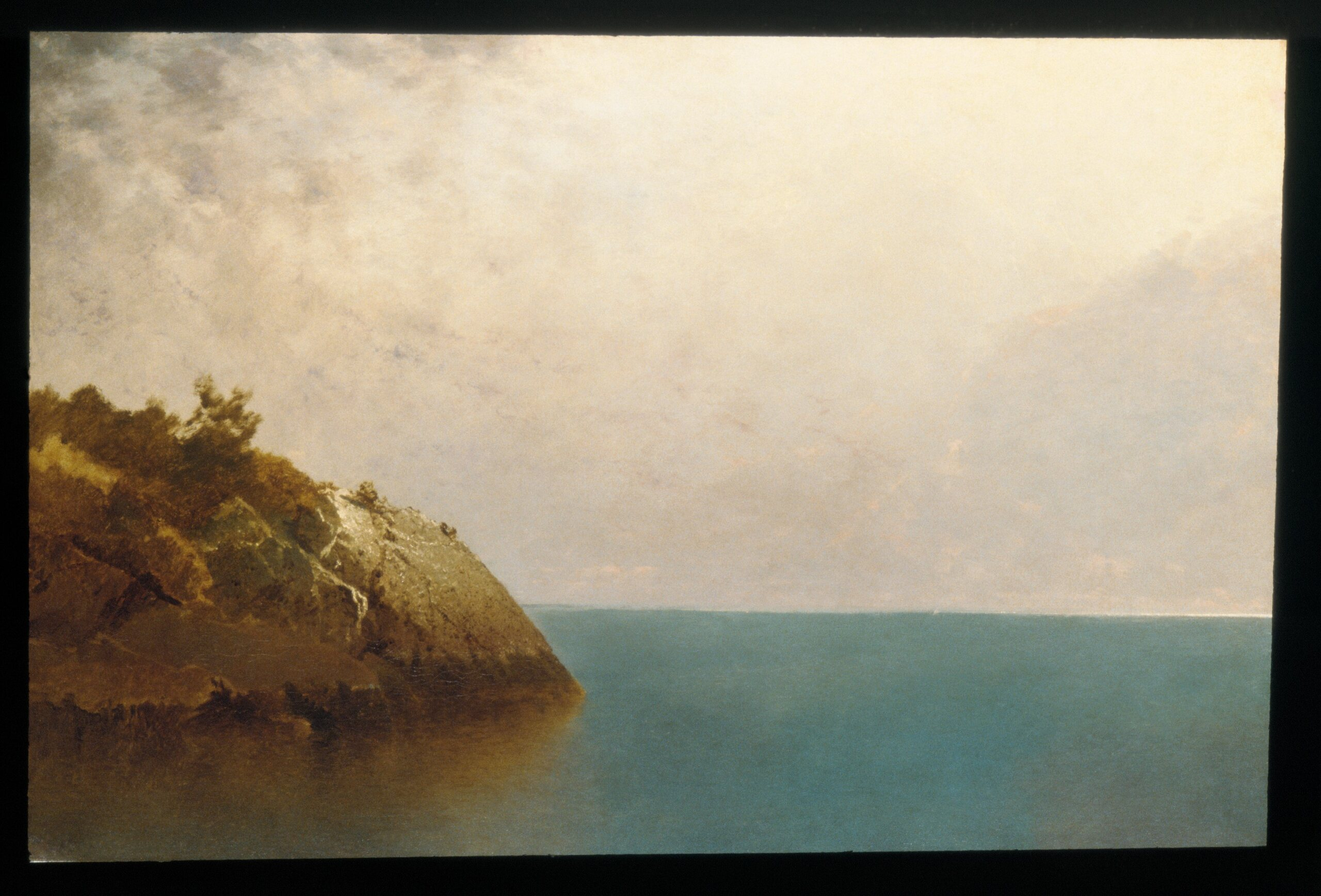
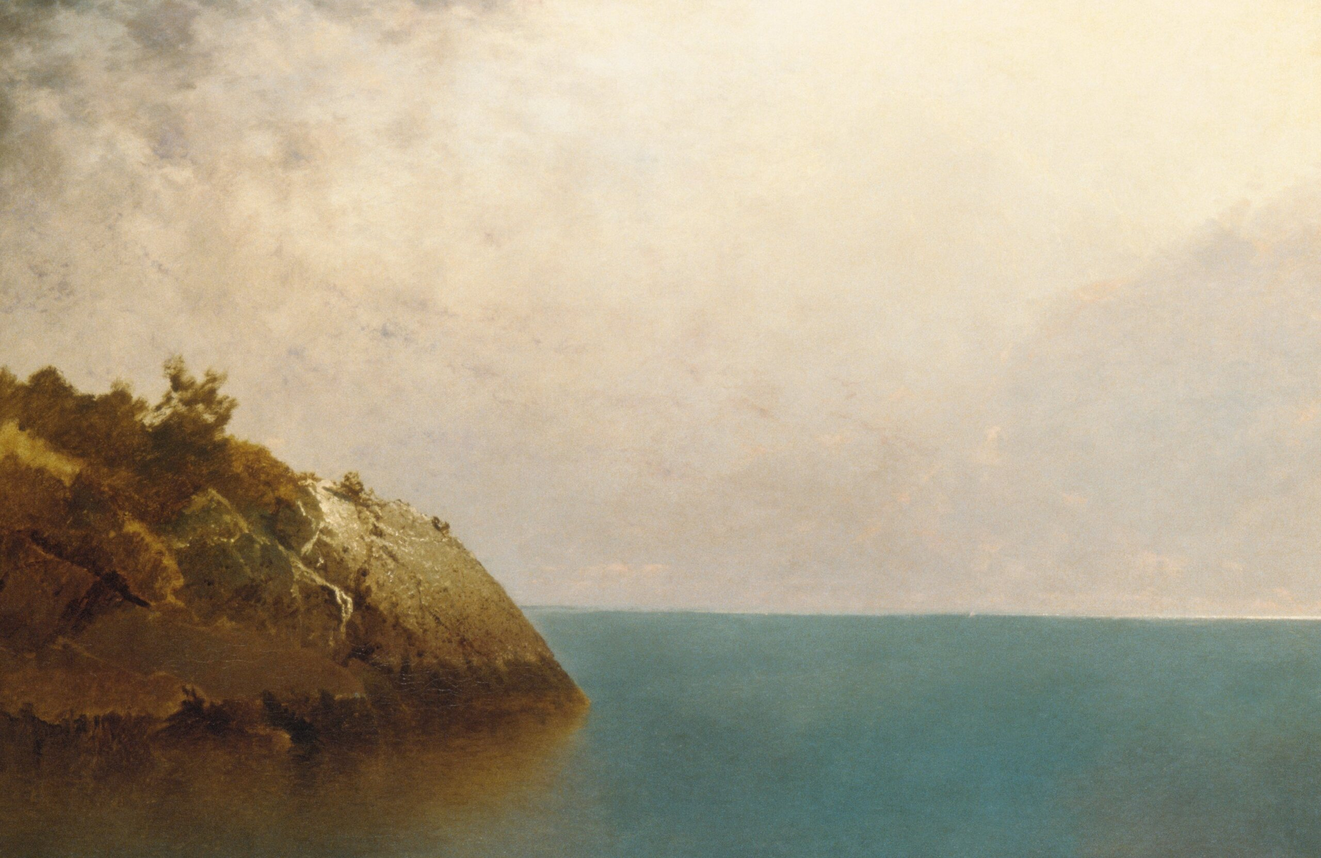
Trim the museum frame from four new paintings
A Foggy Sky had a black mount around it, and Isola Bella, Autumn Meadows and Arques-la-Bataille had a thin frame edge that showed along the sides of the screen. They are cropped again from the museum originals.

diff --git a/THIRD_PARTY_NOTICES.md b/THIRD_PARTY_NOTICES.md
@@ -307,6 +307,7 @@ All files were resized to 2560 px on the long side, re-encoded as JPEG and strip
 - Source: https://www.metmuseum.org/art/collection/search/11308
 - License: CC0 1.0 Universal Public Domain Dedication (The Met Open Access)
 - License proof: https://www.metmuseum.org/art/collection/search/11308 , https://www.metmuseum.org/openaccess (the collection API marks this object public domain, isPublicDomain true, and serves an Open Access image; the painter died in 1872)
+- Edits: cropped from the museum photograph to remove the black mount around the painting
 
 ### kensett-newport-rocks
 
@@ -334,6 +335,7 @@ All files were resized to 2560 px on the long side, re-encoded as JPEG and strip
 - Source: https://www.metmuseum.org/art/collection/search/10945
 - License: CC0 1.0 Universal Public Domain Dedication (The Met Open Access)
 - License proof: https://www.metmuseum.org/art/collection/search/10945 , https://www.metmuseum.org/openaccess
+- Edits: cropped from the museum photograph to remove the dark edge around the painting
 
 ### twachtman-arques
 
@@ -343,6 +345,7 @@ All files were resized to 2560 px on the long side, re-encoded as JPEG and strip
 - Source: https://www.metmuseum.org/art/collection/search/12842
 - License: CC0 1.0 Universal Public Domain Dedication (The Met Open Access)
 - License proof: https://www.metmuseum.org/art/collection/search/12842 , https://www.metmuseum.org/openaccess
+- Edits: cropped from the museum photograph to remove the frame edge around the painting
 
 ### inness-autumn-meadows
 
@@ -352,6 +355,7 @@ All files were resized to 2560 px on the long side, re-encoded as JPEG and strip
 - Source: https://www.metmuseum.org/art/collection/search/11226
 - License: CC0 1.0 Universal Public Domain Dedication (The Met Open Access)
 - License proof: https://www.metmuseum.org/art/collection/search/11226 , https://www.metmuseum.org/openaccess
+- Edits: cropped from the museum photograph to remove the dark edge around the painting
 
 ### hiroshige-kanbara
 
